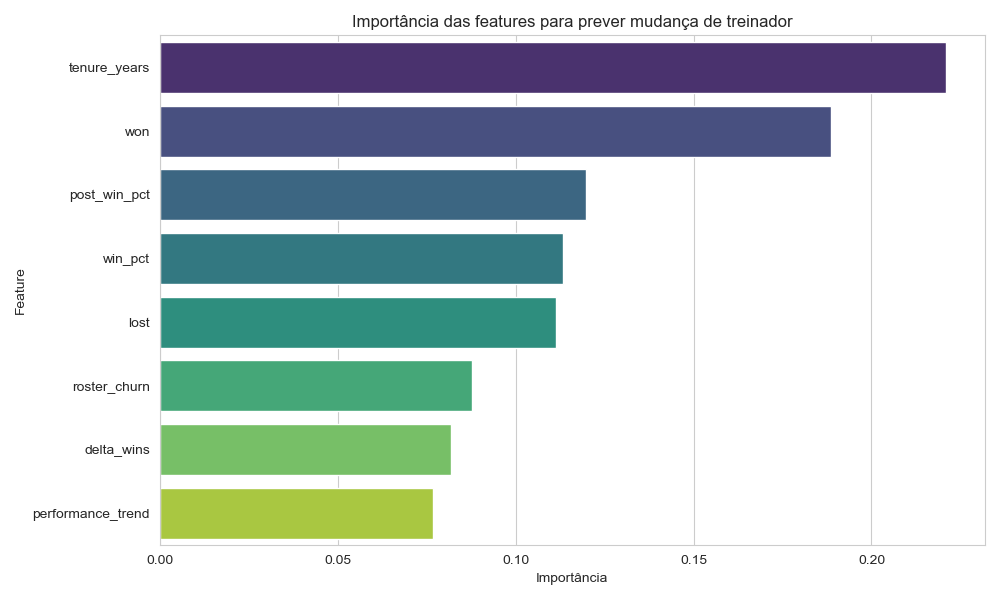
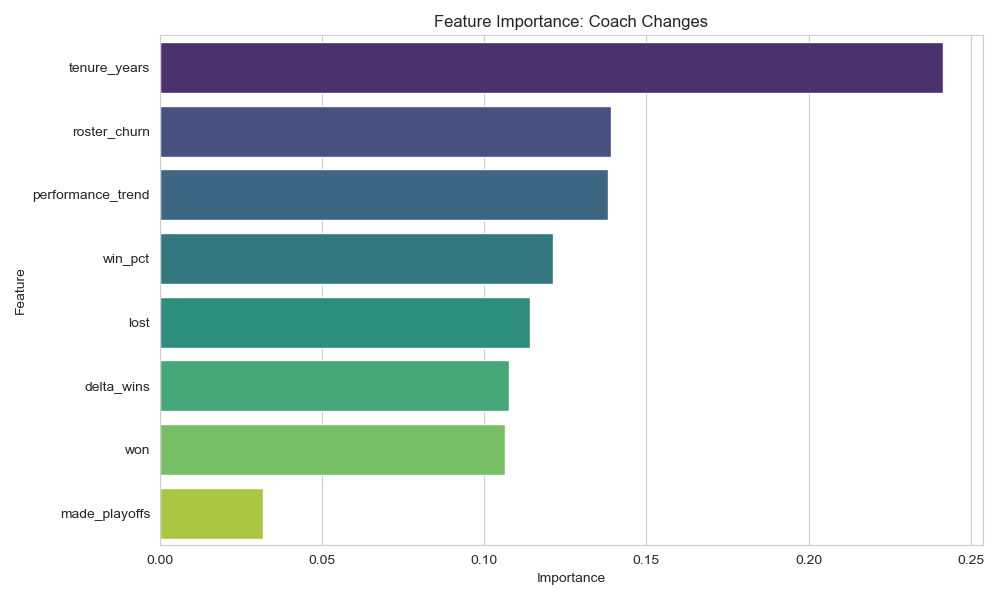
Done#

diff --git a/coacheChangings.py b/coacheChangings.py
@@ -2,7 +2,7 @@ import pandas as pd
 import numpy as np
 import os
 from sklearn.ensemble import RandomForestClassifier
-from sklearn.metrics import classification_report, confusion_matrix, roc_auc_score, precision_recall_curve
+from sklearn.metrics import classification_report, confusion_matrix, roc_auc_score
 import matplotlib.pyplot as plt
 import seaborn as sns
 
@@ -29,11 +29,17 @@ except FileNotFoundError as e:
 # =========================================================
 print("Engineering Features...")
 
-coaches_df.sort_values(['tmID', 'year'], inplace=True)
+coaches_df = coaches_df.sort_values(['tmID', 'year', 'stint'])
+coaches_df = coaches_df.drop_duplicates(subset=['tmID', 'year'], keep='last').copy()
 
+coaches_df.sort_values(['tmID', 'year'], inplace=True)
 coaches_df['next_coachID'] = coaches_df.groupby('tmID')['coachID'].shift(-1)
-model_df = coaches_df.dropna(subset=['next_coachID']).copy()
+
+model_df = coaches_df.copy()
+
 model_df['coach_change'] = (model_df['coachID'] != model_df['next_coachID']).astype(int)
+
+model_df['made_playoffs'] = np.where((model_df['post_wins'] + model_df['post_losses']) > 0, 1, 0)
 
 model_df['prev_wins'] = model_df.groupby('tmID')['won'].shift(1)
 model_df['delta_wins'] = model_df['won'] - model_df['prev_wins']
@@ -86,7 +92,7 @@ model_df['roster_churn'] = model_df['roster_churn'].fillna(0)
 
 features = [
     'win_pct',
-    'post_win_pct',
+    'made_playoffs',
     'tenure_years',
     'performance_trend',
     'delta_wins',
@@ -96,13 +102,14 @@ features = [
 ]
 target = 'coach_change'
 
-model_df['performance_trend'] = model_df['performance_trend'].fillna(0)
-model_df['post_win_pct'] = model_df['post_win_pct'].fillna(0)
 model_df = model_df.dropna(subset=features)
 
 latest_season = model_df['year'].max()
-train_df = model_df[model_df['year'] < latest_season]
-test_df = model_df[model_df['year'] == latest_season]
+
+train_df = model_df[model_df['year'] < latest_season].copy()
+test_df = model_df[model_df['year'] == latest_season].copy()
+
+train_df = train_df.dropna(subset=['next_coachID'])
 
 X_train = train_df[features]
 y_train = train_df[target]
@@ -113,20 +120,20 @@ print(f"Treino: {len(X_train)} amostras (épocas até {int(latest_season-1)})")
 print(f"Teste: {len(X_test)} amostras (época {int(latest_season)})")
 
 # =========================================================
-# STEP 4: TRAINING & THRESHOLDING
+# STEP 4: TRAINING 
 # =========================================================
-print("\n Treinando o modelo de classificação...")
+print("\n Training Random Forest Classifier...")
 
-rf = RandomForestClassifier(n_estimators=300, random_state=42, class_weight='balanced', max_depth=6)
+rf = RandomForestClassifier(n_estimators=500, random_state=42, class_weight='balanced', max_depth=8)
 rf.fit(X_train, y_train)
 
-print("Modelo treinado com sucesso!")
+print("Model trained successfully!")
 
-print("\n Avaliando o desempenho do modelo...")
+print("\n Evaluating model performance...")
 
 y_prob = rf.predict_proba(X_test)[:, 1]
 
-THRESHOLD = 0.30
+THRESHOLD = 0.40
 y_pred_custom = (y_prob >= THRESHOLD).astype(int)
 
 # =========================================================
@@ -140,7 +147,7 @@ cm = confusion_matrix(y_test, y_pred_custom, labels=[0,1])
 sns.heatmap(cm, annot=True, fmt='d', cmap='Reds', xticklabels=['Safe', 'Fired'], yticklabels=['Safe', 'Fired'])
 plt.ylabel('Actual')
 plt.xlabel('Predicted')
-plt.title('Matriz de confusão')
+plt.title(f'Confusion Matrix (Threshold {THRESHOLD})')
 plt.tight_layout()
 plt.savefig("results/plots/coach_churn_confusion_matrix.png")
 plt.show()
@@ -162,8 +169,8 @@ importances = pd.DataFrame({
 
 plt.figure(figsize=(10,6))
 sns.barplot(x='Importance', y='Feature', data=importances, palette='viridis')
-plt.title('Importância das features para prever mudança de treinador')
-plt.xlabel('Importância')
+plt.title('Feature Importance: Coach Changes')
+plt.xlabel('Importance')
 plt.ylabel('Feature')
 plt.tight_layout()
 plt.savefig("results/plots/coach_firing_factors.png")
